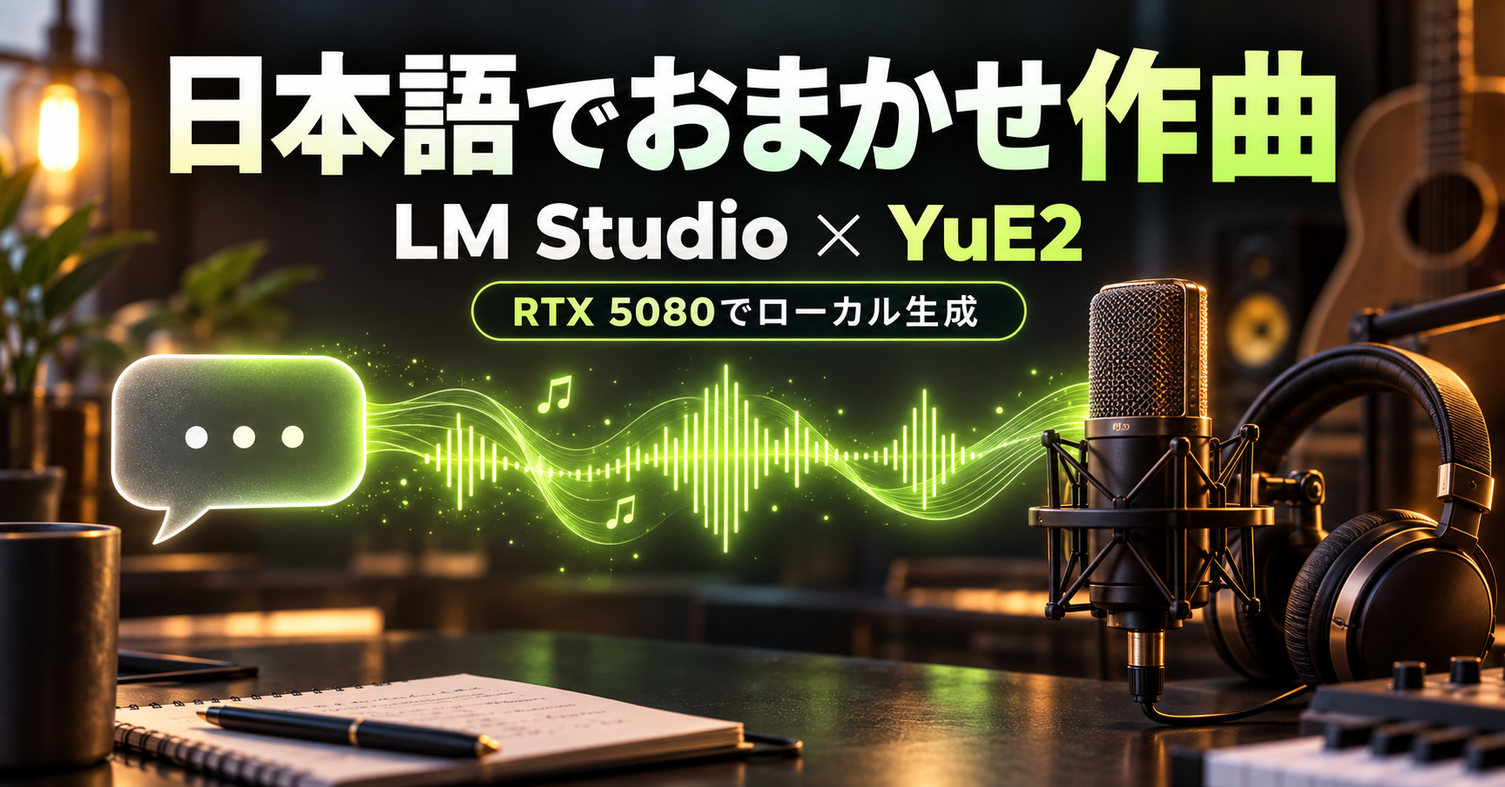
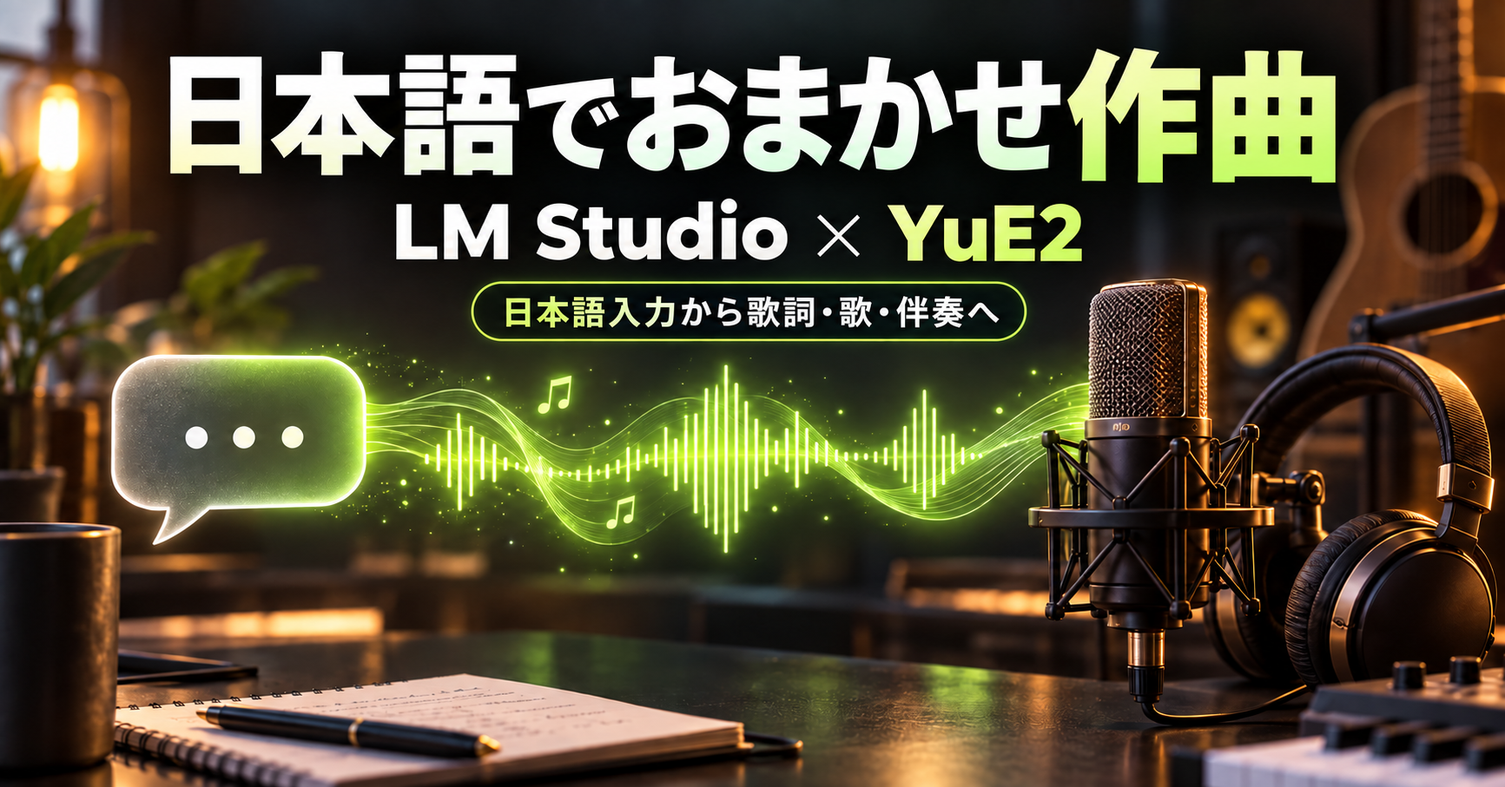
Publish bilingual setup guide and reader-focused thumbnail

diff --git a/docs/note-preview.html b/docs/note-preview.html
@@ -1,11 +1,11 @@
-<!doctype html><html lang="ja"><meta charset="utf-8"><meta name="viewport" content="width=device-width,initial-scale=1"><title>日本語おまかせ作曲 — note原稿プレビュー</title><style>body{font-family:system-ui,"Yu Gothic",sans-serif;line-height:1.85;color:#26312b;background:#f4f5f2;margin:0}main{max-width:940px;padding:48px;margin:auto;background:white}h1{font-size:2.1em;line-height:1.4}h2{margin-top:2.5em;border-bottom:2px solid #9ec16e;padding-bottom:.4em}img{max-width:100%;height:auto;border-radius:8px}pre{background:#19211d;color:#edf4e6;padding:20px;overflow:auto;border-radius:8px;font-size:.9em}code{font-family:monospace}table{border-collapse:collapse;width:100%;font-size:.95em}th,td{padding:12px;border:1px solid #d7dfd3;text-align:left}th{background:#edf4e6}a{color:#326b32}blockquote{border-left:5px solid #9ec16e;padding:4px 18px;background:#f4f7ef}@media(max-width:650px){main{padding:20px}h1{font-size:1.65em}table{display:block;overflow:auto}}</style><main><h1>日本語でざっくり頼んで、RTX 5080で歌を作る。LM Studio × YuE2のComfyUIワークフロー</h1>
+<!doctype html><html lang="ja"><meta charset="utf-8"><title>日本語おまかせ作曲 導入ガイド</title><main><h1>日本語でおまかせ作曲。LM Studio × YuE2のComfyUI導入ガイド</h1>
 <p><img src="assets/note-thumbnail.png" alt="日本語でおまかせ作曲" /></p>
 <p>画像のワークフローと同じように、「こんな感じの曲がほしい」と日本語で書いて、あとはローカルのAIに任せたい。今回は、その入口をComfyUIに用意しました。</p>
 <p>入力するのは、たとえばこんな一言です。</p>
 <blockquote>
 <p>雨の日にコンビニ行く感じ。ちょっと切ないけど明るい、女の子の声で。歌詞もおまかせ。</p>
 </blockquote>
-<p>LM StudioのQwen3.5 9Bがこの文章から歌詞と曲調を作り、YuE2が歌と伴奏を生成します。作詞モデルをGPUから解放してから曲生成へ進むので、同じRTX 5080を順番に使います。</p>
+<p>LM StudioのQwen3.5 9Bがこの文章から歌詞と曲調を作り、YuE2が歌と伴奏を生成します。作詞モデルをGPUから解放してから曲生成へ進むので、同じGPUを順番に使います。</p>
 <p>試した環境では、4行の日本語歌詞から39.6秒の曲ができました。ComfyUIの実行開始から保存完了までは166.2秒。モデルの読み込みも含む時間です。ただし日本語の発音や歌詞の再現には確認が必要で、今回の結果を「毎回そのまま完成曲として使える」とは扱っていません。</p>
 <p><img src="assets/workflow-user-provided.png" alt="実生成した画面" /></p>
 <p>この画像は実生成時の提供スクリーンショットです。現在の配布版では、時間の目標設定とモデル取得ボタンを追加しています。更新後の配置はこちらです。</p>
@@ -75,7 +75,7 @@ nvidia-smi
 </code></pre>
 <p>GPU名が表示されることを確認します。WSL内へ別のLinux用GPUドライバーを重ねて入れる手順ではありません。GPUが見えない状態なら、先にWindows側ドライバーとWSLの状態を確認してください。</p>
 <h2>2. WSL内にComfyUIを準備</h2>
-<p>既存環境があれば、その実際のフォルダーを以降の <code>--comfyui</code> に指定します。新規導入は<a href="https://docs.comfy.org/installation/manual_install">ComfyUI公式手順</a>を参照してください。RTX 5080向けの作成例は以下です。<code>~/ComfyUI</code> が既に存在する場合、この新規作成例を重ねて実行しません。</p>
+<p>既存環境があれば、その実際のフォルダーを以降の <code>--comfyui</code> に指定します。新規導入は<a href="https://docs.comfy.org/installation/manual_install">ComfyUI公式手順</a>を参照してください。以下はCUDA 12.8版PyTorchを使う新規作成例です。GPUとドライバーの対応はComfyUI公式手順でも確認してください。<code>~/ComfyUI</code> が既に存在する場合、この新規作成例を重ねて実行しません。</p>
 <pre><code class="language-bash">cd ~
 git clone https://github.com/Comfy-Org/ComfyUI.git
 cd ~/ComfyUI
@@ -91,7 +91,7 @@ python3.12 -m venv .venv
 unzip /mnt/c/Users/Windowsのユーザー名/Downloads/受け取ったZIP名.zip -d ~/Codex/packages
 </code></pre>
 <p>展開されたフォルダーへ移動します。<code>README.md</code> と <code>install.py</code> が見える階層が正しい位置です。ブラウザーで編集中のワークフローを保存し、ComfyUIの実行キューが空の状態にしてから導入してください。</p>
-<pre><code class="language-bash">cd ~/Codex/packages/YuE2_Japanese_LMStudio_20260914045244
+<pre><code class="language-bash">cd ~/Codex/packages/YuE2_Japanese_LMStudio_20260914063527
 python3 verify_package.py
 python3 install.py --comfyui ~/ComfyUI
 </code></pre>
@@ -124,7 +124,7 @@ python3 install.py --comfyui ~/ComfyUI
 <h2>5. ワークフローからモデルを取得</h2>
 <p>左側のワークフロー一覧で <code>03_音声 → 17_音楽_YuE2</code> を開きます。②のモデル選択欄と <code>properties.models</code> に、公式の固定リビジョンの取得先を設定しています。不足モデルの案内から取得先を開ける、ComfyUIで一般的な形式です。</p>
 <p><strong>重み2ファイルだけでは動きません。</strong> 設定・トークナイザー・ライセンスを含む13ファイルが必要です。ComfyUIの版によってはブラウザーのDownloadsへ保存され、自動でWSLの正しいフォルダーへ配置されません。<strong>②の「必須モデル一式を取得 / Download models」ボタン</strong>なら、全13ファイルを所定位置へ保存し、サイズとSHA256も確認します。取得中は同じボタンに状態を表示します。失敗時にはエラーが表示され、未完了の <code>.part</code> は完成品として使われません。ボタンと同じ処理をUbuntuから実行する方法は次です。</p>
-<pre><code class="language-bash">cd ~/Codex/packages/YuE2_Japanese_LMStudio_20260914045244
+<pre><code class="language-bash">cd ~/Codex/packages/YuE2_Japanese_LMStudio_20260914063527
 python3 download_models.py --comfyui ~/ComfyUI
 python3 download_models.py --comfyui ~/ComfyUI --check-only
 </code></pre>
@@ -273,8 +273,13 @@ python3 download_models.py --comfyui ~/ComfyUI --check-only
 </tbody>
 </table>
 <h2>バージョン管理と再構築</h2>
-<p>配布識別子は <code>VERSION</code>、変更点は <code>CHANGELOG.md</code> に記載しています。ソースはGitで管理し、改行変換を止める <code>.gitattributes</code> を設定しています。公開リポジトリを作成したことを意味するものではありません。</p>
+<p><a href="https://github.com/FURUYAN1234/ComfyUI-YuE2-Japanese">GitHubソース</a> / <a href="https://github.com/FURUYAN1234/ComfyUI-YuE2-Japanese/releases/tag/yue2-20260914063527">この版のRelease</a></p>
+<p>配布版：<code>20260914063527</code>、タグ：<code>yue2-20260914063527</code>。Releaseの <code>YuE2_Japanese_LMStudio_20260914063527.zip</code> を使用してください。GitHub自動生成のSource code ZIPとは別です。</p>
+<p>配布識別子は <code>VERSION</code>、変更点は <code>CHANGELOG.md</code> に記載しています。ソースはGitで管理し、改行変換を止める <code>.gitattributes</code> を設定しています。GitHubのタグ付きReleaseから配布ZIPを取得できます。</p>
 <p>タグ付きソースからの構築：</p>
+<pre><code class="language-bash">git clone --branch yue2-20260914063527 https://github.com/FURUYAN1234/ComfyUI-YuE2-Japanese.git
+cd ComfyUI-YuE2-Japanese
+</code></pre>
 <pre><code class="language-bash">python3 build_package.py --output /保存先フォルダー
 </code></pre>
 <p>生成ZIPを新規フォルダーへ展開し、その中で <code>python3 verify_package.py</code> を実行します。SHA256一覧はマニフェスト自身以外の全ファイルを対象とし、余分なファイルもエラーにします。確認後にPythonを実行すると <code>__pycache__</code> ができる場合があるため、配布原本の確認は導入前に行ってください。</p>
@@ -286,4 +291,19 @@ python3 download_models.py --comfyui ~/ComfyUI --check-only
 <li><a href="https://lmstudio.ai/models/qwen/qwen3.5-9b">LM StudioのQwen3.5 9Bページ</a></li>
 <li><a href="https://note.com/humble_bobcat51/n/n977c99a109eb">導入検討時の参考記事</a></li>
 </ul>
-<h2>歌詞・曲情報と完了表示</h2><p>④は「✅ 曲の生成が完了 / Completed」を先頭に、曲名、実際の長さ、目標時間、時間設定、曲生成・保存の所要時間、改行付き歌詞、曲調・声・楽器、保存先を表示します。表示を読みやすくする変更で、後続ノードへ渡す生成記録JSONは維持します。曲生成時間にはLM Studioでの作詞時間を含みません。</p></main></html>
+<h2>歌詞・曲情報と完了表示</h2>
+<p>④は「✅ 曲の生成が完了 / Completed」を先頭に、曲名、実際の長さ、目標時間、時間設定、曲生成・保存の所要時間、改行付き歌詞、曲調・声・楽器、保存先を表示します。表示を読みやすくする変更で、後続ノードへ渡す生成記録JSONは維持します。曲生成時間にはLM Studioでの作詞時間を含みません。</p>
+<p>既存利用者は最新版ZIPを展開して整合性を確認し、<code>python3 install.py --comfyui ~/ComfyUI</code> を実行後、ComfyUIを再起動してブラウザーを再読込してください。編集中の指示は先に保存し、インストーラーが作るバックアップも保持してください。</p>
+<p>更新後の通常ワークフローも実機で再確認：従来4行の日本語入力から59.9587秒の曲を生成。全工程171.848秒（作詞・ロード・保存を含む、キャッシュ省略なし）。曲生成から保存まで68.72秒。実ブラウザーで改行付き歌詞・曲情報・完了表示を確認。既存の同一条件をキャッシュで再表示する経路も確認。</p>
+<p>公開記事・試聴例：https://note.com/happy_duck780/n/n57df44cf7fd2</p>
+<p>掲載サンプル「傘下のコンビニエンス」（39.6秒）の生成歌詞：</p>
+<pre><code class="language-text">[Verse]
+雨の音がリズムを刻む
+温かいおにぎりが待つ
+
+[Chorus]
+少し切ないけど笑顔で
+明るい灯りに照らされて
+</code></pre>
+<p>歌唱の書き起こしではなく、生成時に指定した歌詞です。試聴音声はnoteに掲載し、配布ZIPには同梱しません。</p>
+</main></html>

diff --git a/README.md b/README.md
@@ -1,4 +1,8 @@
-# 日本語おまかせ作曲 — LM Studio × YuE2 / ComfyUI
+# 日本語おまかせ作曲 / Japanese Song Creation — LM Studio × YuE2 / ComfyUI
+
+[日本語](#配布物と別途必要なもの) | [English setup guide](#english-setup-guide)
+
+[Download / ダウンロード](https://github.com/FURUYAN1234/ComfyUI-YuE2-Japanese/releases/tag/yue2-20260914063527)
 
 ![日本語おまかせ作曲](docs/assets/note-thumbnail.png)
 
@@ -56,7 +60,7 @@ GPU名が表示されることを確認します。WSL内へ別のLinux用GPUド
 
 ## 2. WSL内にComfyUIを準備
 
-既存環境があれば、その実際のフォルダーを以降の `--comfyui` に指定します。新規導入は[ComfyUI公式手順](https://docs.comfy.org/installation/manual_install)を参照してください。RTX 5080向けの作成例は以下です。`~/ComfyUI` が既に存在する場合、この新規作成例を重ねて実行しません。
+既存環境があれば、その実際のフォルダーを以降の `--comfyui` に指定します。新規導入は[ComfyUI公式手順](https://docs.comfy.org/installation/manual_install)を参照してください。以下はCUDA 12.8版PyTorchを使う新規作成例です。GPUとドライバーの対応はComfyUI公式手順でも確認してください。`~/ComfyUI` が既に存在する場合、この新規作成例を重ねて実行しません。
 
 ```bash
 cd ~
@@ -82,7 +86,7 @@ unzip /mnt/c/Users/Windowsのユーザー名/Downloads/受け取ったZIP名.zip
 展開されたフォルダーへ移動します。`README.md` と `install.py` が見える階層が正しい位置です。ブラウザーで編集中のワークフローを保存し、ComfyUIの実行キューが空の状態にしてから導入してください。
 
 ```bash
-cd ~/Codex/packages/YuE2_Japanese_LMStudio_20260914045244
+cd ~/Codex/packages/YuE2_Japanese_LMStudio_20260914063527
 python3 verify_package.py
 python3 install.py --comfyui ~/ComfyUI
 ```
@@ -137,7 +141,7 @@ export YUE2_LMS_CLI='/mnt/c/実際の配置先/lms.exe'
 **重み2ファイルだけでは動きません。** 設定・トークナイザー・ライセンスを含む13ファイルが必要です。ComfyUIの版によってはブラウザーのDownloadsへ保存され、自動でWSLの正しいフォルダーへ配置されません。**②の「必須モデル一式を取得 / Download models」ボタン**なら、全13ファイルを所定位置へ保存し、サイズとSHA256も確認します。取得中は同じボタンに状態を表示します。失敗時にはエラーが表示され、未完了の `.part` は完成品として使われません。ボタンと同じ処理をUbuntuから実行する方法は次です。
 
 ```bash
-cd ~/Codex/packages/YuE2_Japanese_LMStudio_20260914045244
+cd ~/Codex/packages/YuE2_Japanese_LMStudio_20260914063527
 python3 download_models.py --comfyui ~/ComfyUI
 python3 download_models.py --comfyui ~/ComfyUI --check-only
 ```
@@ -223,9 +227,19 @@ ComfyUI/models/yue2/
 
 ## バージョン管理と再構築
 
-配布識別子は `VERSION`、変更点は `CHANGELOG.md` に記載しています。ソースはGitで管理し、改行変換を止める `.gitattributes` を設定しています。公開リポジトリを作成したことを意味するものではありません。
+[GitHubソース](https://github.com/FURUYAN1234/ComfyUI-YuE2-Japanese) / [この版のRelease](https://github.com/FURUYAN1234/ComfyUI-YuE2-Japanese/releases/tag/yue2-20260914063527)
+
+配布版：`20260914063527`、タグ：`yue2-20260914063527`。Releaseの `YuE2_Japanese_LMStudio_20260914063527.zip` を使用してください。GitHub自動生成のSource code ZIPとは別です。
+
+
+配布識別子は `VERSION`、変更点は `CHANGELOG.md` に記載しています。ソースはGitで管理し、改行変換を止める `.gitattributes` を設定しています。GitHubのタグ付きReleaseから配布ZIPを取得できます。
 
 タグ付きソースからの構築：
+
+```bash
+git clone --branch yue2-20260914063527 https://github.com/FURUYAN1234/ComfyUI-YuE2-Japanese.git
+cd ComfyUI-YuE2-Japanese
+```
 
 ```bash
 python3 build_package.py --output /保存先フォルダー
@@ -268,3 +282,115 @@ python3 build_package.py --output /保存先フォルダー
 ```
 
 歌唱の書き起こしではなく、生成時に指定した歌詞です。試聴音声はnoteに掲載し、配布ZIPには同梱しません。
+
+## English setup guide
+
+Describe the song you want in Japanese. LM Studio creates Japanese lyrics and an English style prompt; YuE2 generates vocals and accompaniment. The LLM is unloaded before music generation so they use the GPU sequentially. This integration targets **YuE2-3B, not legacy YuE v1**.
+
+### Download and prerequisites
+
+Download the named `YuE2_Japanese_LMStudio_20260914063527.zip` asset from the Release linked above, and extract the entire ZIP. The workflow JSON alone is insufficient. The ZIP contains the workflow, custom nodes, installer, isolated runtime scripts, model manifest/downloader, integrity checker, documentation and licenses. It does not include weights, LM Studio, ComfyUI, generated songs or credentials. No paid external API key is required; initial software/model downloads need internet access.
+
+Use Windows with NVIDIA drivers, WSL2 Ubuntu, ComfyUI inside WSL and LM Studio on Windows. Keep tens of GB of disk space free for models, environments and downloads. The tested GPU is listed in the Japanese validation section: it is a measurement condition, not a universal minimum specification. Other GPUs and all song lengths have not been tested.
+
+### 1. Prepare WSL and ComfyUI
+
+If WSL ComfyUI already works, keep it and use its real folder in `--comfyui`; do not replace its Python/Torch just to match this guide. For a fresh setup, install the Windows NVIDIA driver and follow Microsoft's WSL instructions linked above. In administrator PowerShell:
+
+```powershell
+wsl --install -d Ubuntu-24.04
+```
+
+Restart/create the Linux user as prompted. Run subsequent Linux commands in the **Ubuntu terminal**, not PowerShell:
+
+```bash
+sudo apt update
+sudo apt install -y git python3.12-venv libsndfile1 unzip build-essential
+nvidia-smi
+```
+
+Confirm the GPU is visible. Do not install another Linux GPU display driver inside WSL. For a new ComfyUI installation only, follow the official ComfyUI guide linked above; the Japanese section includes a complete CUDA 12.8/PyTorch 2.10.0 command example. Check that your GPU/driver is supported. Open `http://127.0.0.1:8188` from Windows. After verifying a fresh installation, stop that terminal with Ctrl+C before installing these nodes.
+
+### 2. Install the complete package
+
+Save unsaved workflows and let the ComfyUI queue finish. Replace the Windows username and downloaded ZIP filename in this example:
+
+```bash
+mkdir -p ~/Codex/packages
+unzip /mnt/c/Users/YOUR_WINDOWS_USER/Downloads/YuE2_Japanese_LMStudio_20260914063527.zip -d ~/Codex/packages
+cd ~/Codex/packages/YuE2_Japanese_LMStudio_20260914063527
+python3 verify_package.py
+python3 install.py --comfyui ~/ComfyUI
+```
+
+The installer checks out a pinned official YuE2 commit and installs its dependencies into `~/Codex/work/yue2/.venv`, separate from ComfyUI. It installs nodes into `custom_nodes/comfyui-yue2-local`, and the workflow into `user/default/workflows/03_音声/17_音楽_YuE2`. Runtime paths are recorded in the generated `local_config.json`. Avoid an extra nested custom-node folder.
+
+If an incompatible existing YuE2 source is detected, use a separate `--runtime ~/Codex/work/yue2-music` directory; adapt later paths accordingly. Restart ComfyUI and reload the browser after installation. Preserve existing workflow backups when upgrading.
+
+### 3. Prepare LM Studio
+
+Install and launch LM Studio on Windows. Download **Qwen3.5 9B Q4_K_M** through the LM Studio model page linked above. The workflow guide also links to it. This LLM belongs in LM Studio, not ComfyUI's models folder.
+
+```bash
+(cd ~/Codex/work/yue2 && python3 -c "import planner; print(planner.cli('ls'))")
+```
+
+The Windows CLI is discovered from LocalAppData. Only for a nonstandard installation, set `YUE2_LMS_CLI` to the actual WSL path of `lms.exe` in the shell that launches ComfyUI. Keep LM Studio open. The runtime loads a dedicated `yue2-planner` model with maximum GPU offload/context 4096, then unloads that model after planning. Other manually loaded large models can cause VRAM exhaustion.
+
+The current runtime connects to the Windows host via WSL's default gateway on port 1234 and starts the API through the CLI if necessary. Internet-facing port exposure is unnecessary. Mirrored networking, custom ports and authentication-required API configurations have not been validated. Inspect LM Studio's Developer screen and Windows firewall if connection fails.
+
+### 4. Download music models from the workflow
+
+Open `03_音声 → 17_音楽_YuE2` in the ComfyUI workflow browser. On node ②, click **必須モデル一式を取得 / Download models**. It fetches all 13 pinned files, verifies size and SHA256, and saves them under `ComfyUI/models/yue2/YuE2-3B/` and `YuE2-Vae/`. This includes configuration, tokenizer and licenses, not just the two weight files. Progress/errors appear on the button. Incomplete `.part` files are never treated as completed weights.
+
+The standard missing-model dialog also has download URLs, but depending on ComfyUI/browser version these may save to Downloads without placing files inside WSL. Prefer the integrated button or this equivalent command:
+
+```bash
+cd ~/Codex/packages/YuE2_Japanese_LMStudio_20260914063527
+python3 download_models.py --comfyui ~/ComfyUI
+python3 download_models.py --comfyui ~/ComfyUI --check-only
+```
+
+Valid existing files are reused. Mismatched files produce an error rather than being overwritten. Refresh model lists/restart ComfyUI and select the two model.safetensors entries in node ②.
+
+### 5. Generate, read lyrics and listen
+
+Enter a casual Japanese brief in node ① and run the workflow. Example: `雨の日にコンビニ行く感じ。ちょっと切ないけど明るい、女の子の声で。歌詞もおまかせ。` This requests a bittersweet but cheerful song about going to a convenience store in the rain, with a female voice and automatic lyrics.
+
+The sequence is planning → LLM unload → YuE2 generation → audio preview. Node ④ shows **✅ 曲の生成が完了 / Completed**, title, actual duration, target, duration mode, generation/save time, multiline lyrics, style/voice/instruments and saved folder. The generation/save time excludes LM Studio planning. The original JSON output remains usable downstream.
+
+| Control | Meaning |
+|---|---|
+| brief | Japanese mood, scene, genre or voice request |
+| length | Legacy lyric amount: short 4 lines or normal 16 lines |
+| duration_mode | Legacy length, approximate 30/60/120 seconds, or numeric target |
+| target_seconds | Integer 10–240, used only in the numeric-target mode |
+| planner seed | Change the lyric/style candidate |
+| song seed | Change the music candidate for the same plan |
+| model / vae | Downloaded YuE2-3B and YuE2-Vae weights |
+
+A duration request in Japanese prose is an LLM instruction, not a separately parsed numeric constraint. Node duration controls take precedence. **Duration is approximate and currently inaccurate**: one 30-second target produced 62.1 seconds. The integration adjusts lyric amount/style; it does not trim a song to force an exact length. 60/120-second runs and the numeric maximum are untested. Listen and edit afterward when exact duration matters.
+
+### Output and troubleshooting
+
+Songs are saved to `ComfyUI/output/audio/YuE2/DATETIME_ID/`: `audio.flac`, `song_plan.json`, `score.abc` and `result.json`. Runtime `jobs/` logs contain prompts; do not publish personal logs. The note article linked below includes an actual 39.6-second listening sample and its supplied lyrics; sung words may differ.
+
+| Problem | Action |
+|---|---|
+| Missing red nodes | Check custom-node folder depth and startup logs; restart server and reload browser |
+| Missing config/tokenizer/weights | Download all 13 files and run `--check-only` |
+| CUDA/sm_120 error | Check WSL nvidia-smi and Torch in the YuE2 venv, not the ComfyUI venv |
+| CLI/model not found | Launch LM Studio, finish Qwen3.5 9B Q4_K_M download; set actual CLI path if nonstandard |
+| Connection refused | Check LM Studio Developer screen, port 1234 and host firewall |
+| Out of memory | Finish other image/video/LLM workloads and retry a short song |
+| Truncated planning | Music generation will not start; inspect logs/model settings and retry |
+| Slow cancellation | YuE2 subprocess can be stopped; LM Studio loading/API waits may take up to about 180 seconds |
+| Unexpected lyrics/duration | Inspect node ④ and listen; try another seed; duration is only a target |
+
+### Validation, rebuilding and licenses
+
+Existing live tests include 39.5587 seconds of audio in 166.211 seconds end to end, a 30-second target yielding 62.1187 seconds in 191.927 seconds, and the readable-lyrics update yielding 59.9587 seconds in 171.848 seconds. End-to-end values include model loading, planning, unloading, music generation and saving, but exclude downloads and earlier failed attempts; no cached node skipping. These are individual measurements, not speed guarantees. Audio playback progression and readable completion/metadata were observed in the actual browser. ASR mismatches remain; this is not a subjective music-quality pass or a fresh-other-PC installation test.
+
+For a reproducible build, clone the exact `yue2-20260914063527` tag linked above, run `python3 build_package.py --output /YOUR_OUTPUT_FOLDER`, extract into a new folder and run `python3 -B verify_package.py` there. The manifest covers every packaged file except itself and rejects extra files. Normal Python execution can create __pycache__, so verify the clean package before installation. Compare relative paths and SHA256 values with the Release ZIP.
+
+Integration code: Apache-2.0. YuE2 models: **CC BY-NC 4.0 (noncommercial)**. LM Studio, Qwen and ComfyUI have their own terms. See LICENSE, NOTICE.md and the downloaded model licenses. Software and models remain separate downloads.

diff --git a/docs/note-article.md b/docs/note-article.md
@@ -1,4 +1,4 @@
-# 日本語でざっくり頼んで、RTX 5080で歌を作る。LM Studio × YuE2のComfyUIワークフロー
+# 日本語でおまかせ作曲。LM Studio × YuE2のComfyUI導入ガイド
 
 ![日本語でおまかせ作曲](assets/note-thumbnail.png)
 
@@ -8,7 +8,7 @@
 
 > 雨の日にコンビニ行く感じ。ちょっと切ないけど明るい、女の子の声で。歌詞もおまかせ。
 
-LM StudioのQwen3.5 9Bがこの文章から歌詞と曲調を作り、YuE2が歌と伴奏を生成します。作詞モデルをGPUから解放してから曲生成へ進むので、同じRTX 5080を順番に使います。
+LM StudioのQwen3.5 9Bがこの文章から歌詞と曲調を作り、YuE2が歌と伴奏を生成します。作詞モデルをGPUから解放してから曲生成へ進むので、同じGPUを順番に使います。
 
 試した環境では、4行の日本語歌詞から39.6秒の曲ができました。ComfyUIの実行開始から保存完了までは166.2秒。モデルの読み込みも含む時間です。ただし日本語の発音や歌詞の再現には確認が必要で、今回の結果を「毎回そのまま完成曲として使える」とは扱っていません。
 
@@ -72,7 +72,7 @@ GPU名が表示されることを確認します。WSL内へ別のLinux用GPUド
 
 ## 2. WSL内にComfyUIを準備
 
-既存環境があれば、その実際のフォルダーを以降の `--comfyui` に指定します。新規導入は[ComfyUI公式手順](https://docs.comfy.org/installation/manual_install)を参照してください。RTX 5080向けの作成例は以下です。`~/ComfyUI` が既に存在する場合、この新規作成例を重ねて実行しません。
+既存環境があれば、その実際のフォルダーを以降の `--comfyui` に指定します。新規導入は[ComfyUI公式手順](https://docs.comfy.org/installation/manual_install)を参照してください。以下はCUDA 12.8版PyTorchを使う新規作成例です。GPUとドライバーの対応はComfyUI公式手順でも確認してください。`~/ComfyUI` が既に存在する場合、この新規作成例を重ねて実行しません。
 
 ```bash
 cd ~
@@ -98,7 +98,7 @@ unzip /mnt/c/Users/Windowsのユーザー名/Downloads/受け取ったZIP名.zip
 展開されたフォルダーへ移動します。`README.md` と `install.py` が見える階層が正しい位置です。ブラウザーで編集中のワークフローを保存し、ComfyUIの実行キューが空の状態にしてから導入してください。
 
 ```bash
-cd ~/Codex/packages/YuE2_Japanese_LMStudio_20260914045244
+cd ~/Codex/packages/YuE2_Japanese_LMStudio_20260914063527
 python3 verify_package.py
 python3 install.py --comfyui ~/ComfyUI
 ```
@@ -153,7 +153,7 @@ export YUE2_LMS_CLI='/mnt/c/実際の配置先/lms.exe'
 **重み2ファイルだけでは動きません。** 設定・トークナイザー・ライセンスを含む13ファイルが必要です。ComfyUIの版によってはブラウザーのDownloadsへ保存され、自動でWSLの正しいフォルダーへ配置されません。**②の「必須モデル一式を取得 / Download models」ボタン**なら、全13ファイルを所定位置へ保存し、サイズとSHA256も確認します。取得中は同じボタンに状態を表示します。失敗時にはエラーが表示され、未完了の `.part` は完成品として使われません。ボタンと同じ処理をUbuntuから実行する方法は次です。
 
 ```bash
-cd ~/Codex/packages/YuE2_Japanese_LMStudio_20260914045244
+cd ~/Codex/packages/YuE2_Japanese_LMStudio_20260914063527
 python3 download_models.py --comfyui ~/ComfyUI
 python3 download_models.py --comfyui ~/ComfyUI --check-only
 ```
@@ -239,9 +239,19 @@ ComfyUI/models/yue2/
 
 ## バージョン管理と再構築
 
-配布識別子は `VERSION`、変更点は `CHANGELOG.md` に記載しています。ソースはGitで管理し、改行変換を止める `.gitattributes` を設定しています。公開リポジトリを作成したことを意味するものではありません。
+[GitHubソース](https://github.com/FURUYAN1234/ComfyUI-YuE2-Japanese) / [この版のRelease](https://github.com/FURUYAN1234/ComfyUI-YuE2-Japanese/releases/tag/yue2-20260914063527)
+
+配布版：`20260914063527`、タグ：`yue2-20260914063527`。Releaseの `YuE2_Japanese_LMStudio_20260914063527.zip` を使用してください。GitHub自動生成のSource code ZIPとは別です。
+
+
+配布識別子は `VERSION`、変更点は `CHANGELOG.md` に記載しています。ソースはGitで管理し、改行変換を止める `.gitattributes` を設定しています。GitHubのタグ付きReleaseから配布ZIPを取得できます。
 
 タグ付きソースからの構築：
+
+```bash
+git clone --branch yue2-20260914063527 https://github.com/FURUYAN1234/ComfyUI-YuE2-Japanese.git
+cd ComfyUI-YuE2-Japanese
+```
 
 ```bash
 python3 build_package.py --output /保存先フォルダー

diff --git a/docs/release-notes.md b/docs/release-notes.md
@@ -1,0 +1,29 @@
+# 日本語おまかせ作曲 / Japanese Song Creation — 20260914063527
+
+## 日本語
+日本語の短い希望から、LM Studioが歌詞と曲調を作り、YuE2が歌と伴奏を生成するComfyUIワークフローです。
+- ワークフローから必須モデル13ファイルを取得・SHA256検査。
+- 目標時間の選択・数値入力、seed、再生、歌詞・曲情報・完了表示。
+- WindowsのLM Studio＋WSL2のComfyUI＋独立したYuE2環境。導入はREADMEの手順を参照。
+- 読者向けに記事・サムネイルを修正し、機種名を見出しから除去。GitHub配布リンクと英語導入ガイドを追加。
+
+配布ZIP：`YuE2_Japanese_LMStudio_20260914063527.zip`。モデル・生成曲・認証情報は含みません。Source code ZIPではなく、この配布ZIPを使ってください。
+
+検証：既存の実生成・歌詞表示確認済みコードを維持。新版はドキュメント・画像更新で、テストとZIP整合性検査、クリーンなタグからの再構築一致を確認。詳細な実測はREADMEの検証欄へ。
+
+制約：時間は目安（30秒指定→62.1秒の例）。60/120秒・他PCの新規導入は未検証。生成歌詞と歌唱は一致しない場合があり試聴が必要です。連携コードApache-2.0、YuE2モデルCC BY-NC 4.0（非商用）。
+
+## English
+Turn a casual Japanese request into lyrics and musical style with LM Studio, then generate vocals and accompaniment with YuE2 in ComfyUI.
+- Download all 13 required model files from the workflow and verify SHA256.
+- Duration presets/numeric targets, seeds, audio playback, readable lyrics/song details and completion status.
+- Windows LM Studio + WSL2 ComfyUI + a separate YuE2 Python environment. Follow the bilingual README for installation.
+- Updated the tutorial and thumbnail for readers, removed hardware-specific headline copy, and added GitHub release links and an English setup guide.
+
+Download `YuE2_Japanese_LMStudio_20260914063527.zip`, not GitHub's automatic Source code ZIP. Model weights, generated songs and credentials are excluded.
+
+Validation: unchanged runtime previously passed actual generation and browser lyric-display checks. This documentation/image update is checked with tests, exact package manifests and a clean tagged-source rebuild. Measurement conditions are documented in the README.
+
+Limitations: duration is approximate (a 30-second target produced 62.1 seconds); 60/120-second runs and fresh installation on another PC are untested. Listen to each result; sung words can differ from supplied lyrics. Integration code: Apache-2.0. YuE2 models: CC BY-NC 4.0, noncommercial.
+
+Tag: `yue2-20260914063527`. Version: `20260914063527`.

diff --git a/docs/image-generation.md b/docs/image-generation.md
@@ -1,7 +1,5 @@
-# サムネイル生成記録
+# サムネイル生成 / Thumbnail generation
 
-内蔵imagegen、generate（新規生成）。参考画像の編集ではありません。生成画像は未加工で採用しました。
+内蔵imagegenで既存サムネイルを編集。背景、マイク、ヘッドホン、波形と主見出しを保ち、中央の文言を「日本語入力から歌詞・歌・伴奏へ」に変更。特定GPU名を訴求に使わない読者向け画像です。
 
-生成指示の要点：noteの記事用の横長約1.91:1。ダークチャコール背景、明るいライム色の音の波形、日本語の吹き出しからマイクとヘッドホンへつながる構図。温かいスタジオ感。人や実在ロゴ、架空のUIを入れない。大きく正確な文字「日本語でおまかせ作曲」「LM Studio × YuE2」「RTX 5080でローカル生成」。スマートフォンでも主題が分かる余白と文字サイズ。
-
-提供スクリーンショットは別ファイル `workflow-user-provided.png` としてそのまま保存し、READMEとnote本文に掲載しています。
+Edited the existing thumbnail with built-in imagegen. Preserved the studio scene, microphone, headphones, waveform and main headline. Replaced the central caption with “日本語入力から歌詞・歌・伴奏へ” (From Japanese input to lyrics, vocals and accompaniment). No specific GPU is promoted. The user-provided workflow screenshot is preserved separately.

diff --git a/CHANGELOG.md b/CHANGELOG.md
@@ -1,3 +1,9 @@
+# 20260914063527 / 公開導入ガイド更新 / Public setup guide update
+
+- 読者向けサムネイル、英日README・Release、GitHub公開リンク。
+- Reader-focused thumbnail, bilingual README/Release, GitHub distribution links.
+- Runtime and workflow execution unchanged / 実行コード・ワークフロー接続は維持。
+
 # 20260914045244
 
 - 歌詞を改行付きで読みやすく表示。曲情報と生成完了表示を追加。
